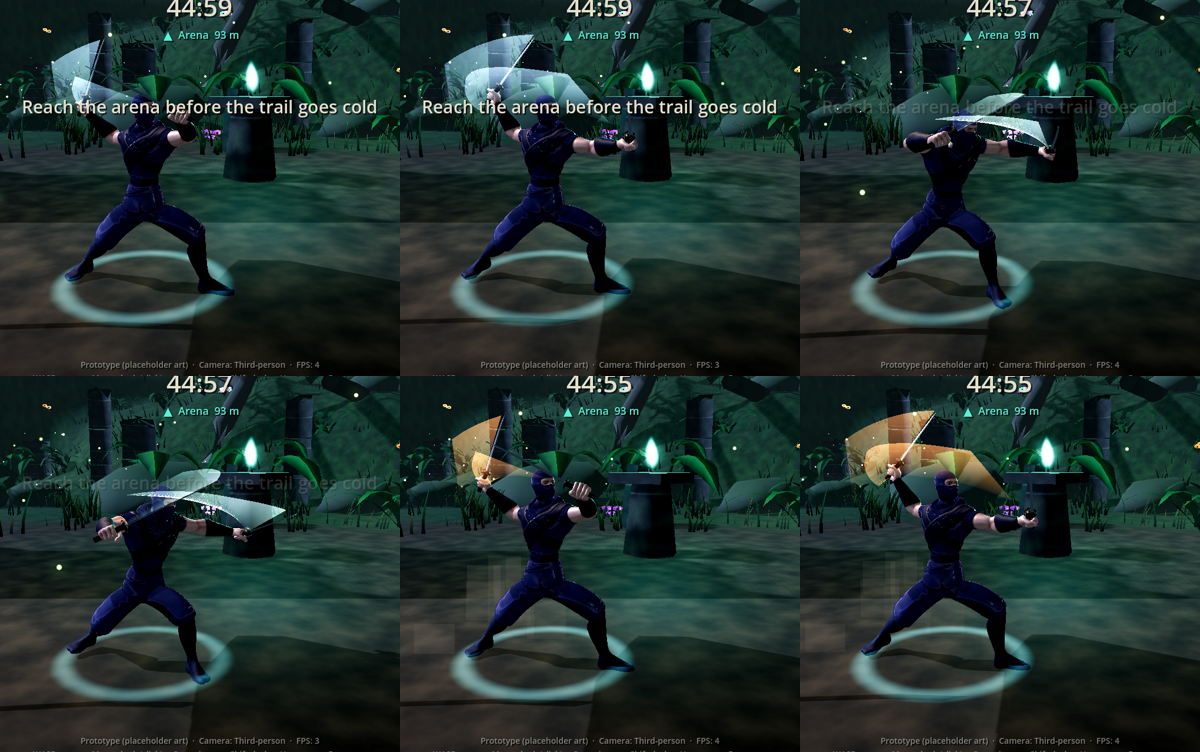
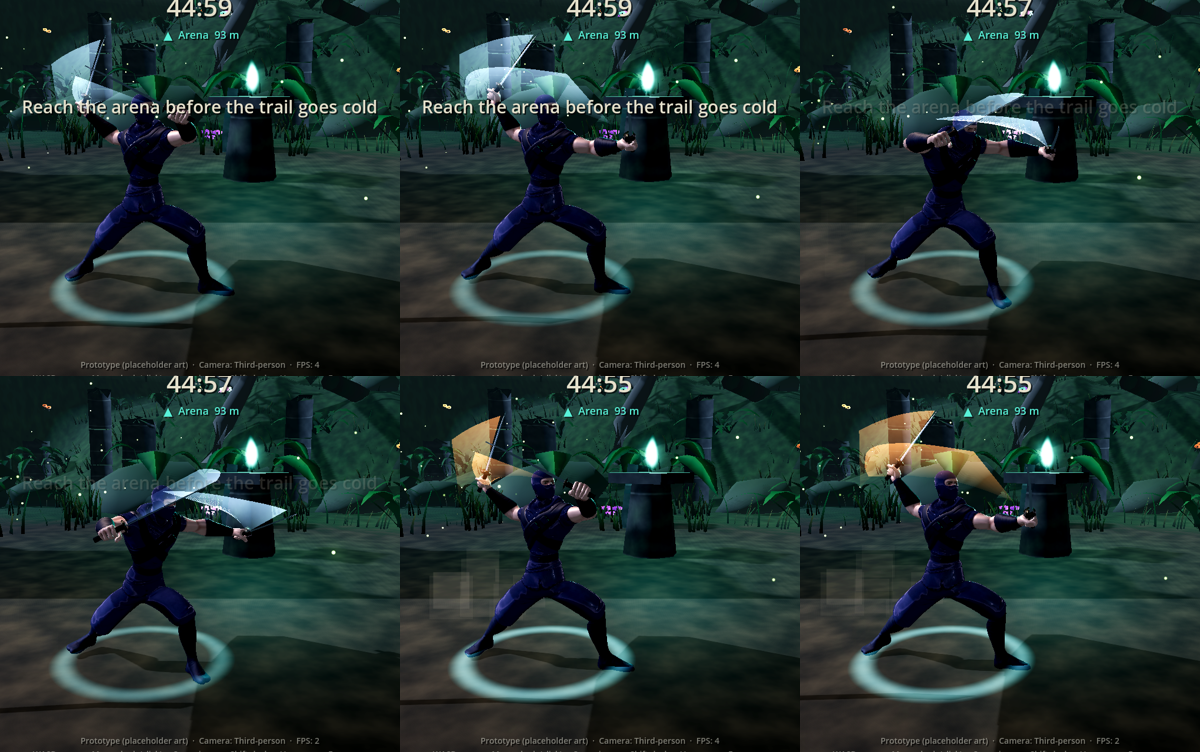
Fix Android crash during light attacks: static slash-trail geometry
The slash trail rebuilt an ImmediateMesh every frame, which crashed the
Godot app on the owner's Android phone a few seconds into light attacks.
The trail is now a fixed 32-point strip built once and positioned by
shader uniforms. Unused points collapse onto the last real point instead
of the world origin (which drew a streak to the ground). Regression test
checks the mesh never changes across swings.

Claude-Session: https://claude.ai/code/session_01TQhzMRe1gkhg9DeemaJmiZ

diff --git a/CLAUDE.md b/CLAUDE.md
@@ -44,7 +44,7 @@ You are the lead game-development assistant for **I want to be NINJA**, a 3D jun
 - Crafting (Phase 7): `Forge` (pure rules) over `PlayerProfile` (v2: materials, gear_owned, equipped); data in `data/gear/` + `data/crafting/catalog.tres`; `GearLoadout` applies gear at expedition start; the dojo is `scenes/ui/hunt_board.tscn` (Hunt board + Forge tabs).
 - Moonfen (Phase 9): `scenes/main/expedition_moonfen.tscn`, boss `nami` (data only). Movement-changing ground is `SurfaceZone` (speed multiplier / blocks_jump / current / damage tick) registered on `PlayerController`; `FogZone`, `SinkingRaft`; `LavaZone.element` (bog = water). Comfort options in `GameSettings` (`user://settings.cfg`; tests set `GameSettings.path`); warning shaders take a `boost` uniform. Generated nodes needing instance shader params use `InstanceTint`.
 - Stormcrag (Phase 10): `scenes/main/expedition_stormcrag.tscn`, boss `raijins_echo`. `GustZone` extends `SurfaceZone` (periodic `current`, chevron "Warning" strips); `SurfaceZone.traction` = grip; `StormCaller` + `StormShelter` (lightning that targets where you stand); `RainFX` (CPU particles, fewer on LOW). Elements in use: fire, water, lightning, earth, nature, poison.
-- Slash trails: `WeaponTrail` (one per hand blade, made by `WeaponMount`; ImmediateMesh ribbon in world space, additive) emits while `PlayerCombat.swing_active()` (lead/tail around the hit window, never for projectiles). Tuning in `data/combat/blade_trail.tres` (`TrailConfig`: lifetime, alpha, colours per blade element, smoothing; fewer subdivisions on LOW); per-attack `AttackDefinition.trail_width/trail_intensity` (heavy 1.3 / 1.35).
+- Slash trails: `WeaponTrail` (one per hand blade, made by `WeaponMount`; a fixed 32-point ArrayMesh built once, positioned by uniforms in `shaders/slash_trail.gdshader` — never rebuild geometry per frame: an ImmediateMesh version crashed the Godot app on Android) emits while `PlayerCombat.swing_active()` (lead/tail around the hit window, never for projectiles). Tuning in `data/combat/blade_trail.tres` (`TrailConfig`: lifetime, alpha, colours per blade element, smoothing; fewer subdivisions on LOW); per-attack `AttackDefinition.trail_width/trail_intensity` (heavy 1.3 / 1.35).
 - Traversal lives in `TraversalComponent` (tuning: `data/player/traversal.tres`); checkpoints are `scenes/world/checkpoint.tscn`.
 - World is procedural: `BiomeTerrain` (heightmap + collision), `FloraScatter`, `FaunaSpawner`, `BiomeAtmosphere`, driven by `project/data/biomes/*.tres`. Shaders in `project/shaders/` must stay `gl_compatibility`-safe (no screen/depth texture reads).
 - Graphics presets (Phase 11): `QualityPreset` data in `data/quality/{low,medium,high}.tres`; `QualityProfile.tier()/current()` (command line `-- --quality=low|medium|high` or `-- --low-quality` > `GameSettings.quality` > auto: LOW on Android, HIGH on PC). `QualityProfile.apply_to_scene()` runs at expedition start (render scale, shadows, glow, light fade); world builders read the preset (flora density/draw distance, terrain mesh step, mist, rain, particles). New heavy features must read a preset field. Tests pin a tier with `QualityProfile.force_tier()`. Budgets + results: `docs/PERFORMANCE.md`; benchmark: `BenchmarkRunner` (dojo Settings tab) / `tools/benchmark.gd`.

diff --git a/docs/CHANGELOG.md b/docs/CHANGELOG.md
@@ -174,3 +174,9 @@ Owner feedback: wanted more landscape, more flora and fauna, more detailed terra
 - Data: `data/combat/blade_trail.tres` (`TrailConfig`) and `AttackDefinition.trail_width / trail_intensity` (heavy set in the generator too). LOW quality uses less smoothing.
 - First look was a near-opaque white sheet (additive + scene glow): toned down to a translucent streak, brightest at the tip.
 - Tests: `trail_test.gd` (4).
+
+## 2026-11-23 — Fix: Godot crashed on Android a few seconds into light attacks
+- Owner report (Godot app on an Android phone; system notice "Godot Engine 4 is crashing frequently"). The crash began with the slash trails, which rebuilt their ribbon geometry every frame (ImmediateMesh: fresh GPU buffers every frame) — a pattern mobile GLES3 drivers handle badly. Desktop could not reproduce it.
+- The trail mesh is now a fixed 32-point strip built once; each frame only shader uniforms change (`shaders/slash_trail.gdshader` positions the vertices). Looks the same.
+- While verifying in the real renderer: unused trail points collapsed to the world origin and drew a streak to the ground — they now collapse onto the last real point.
+- Regression test: the trail mesh is the same object with the same fixed vertex count after repeated swings (failed on the old trail). Needs the owner's retest on the phone to confirm the crash is gone.

diff --git a/docs/KNOWN_ISSUES.md b/docs/KNOWN_ISSUES.md
@@ -18,6 +18,9 @@
 - A single save profile (no slots, no cloud sync).
 - The keyboard "tap Shift to roll" shortcut follows whatever key is bound to Sprint.
 
+## Watch on device
+- Android crash during light attacks (2026-11-23) — fixed by making the slash trail's geometry static; awaiting confirmation on the owner's phone.
+
 ## Cosmetic / engine
 - Quitting while a sound is still playing prints "resources still in use at exit" in the console (engine shutdown message; no effect on players or saves).
 - On a very slow device the first frames of an expedition hitch while the world is generated (terrain and flora are built at load).
